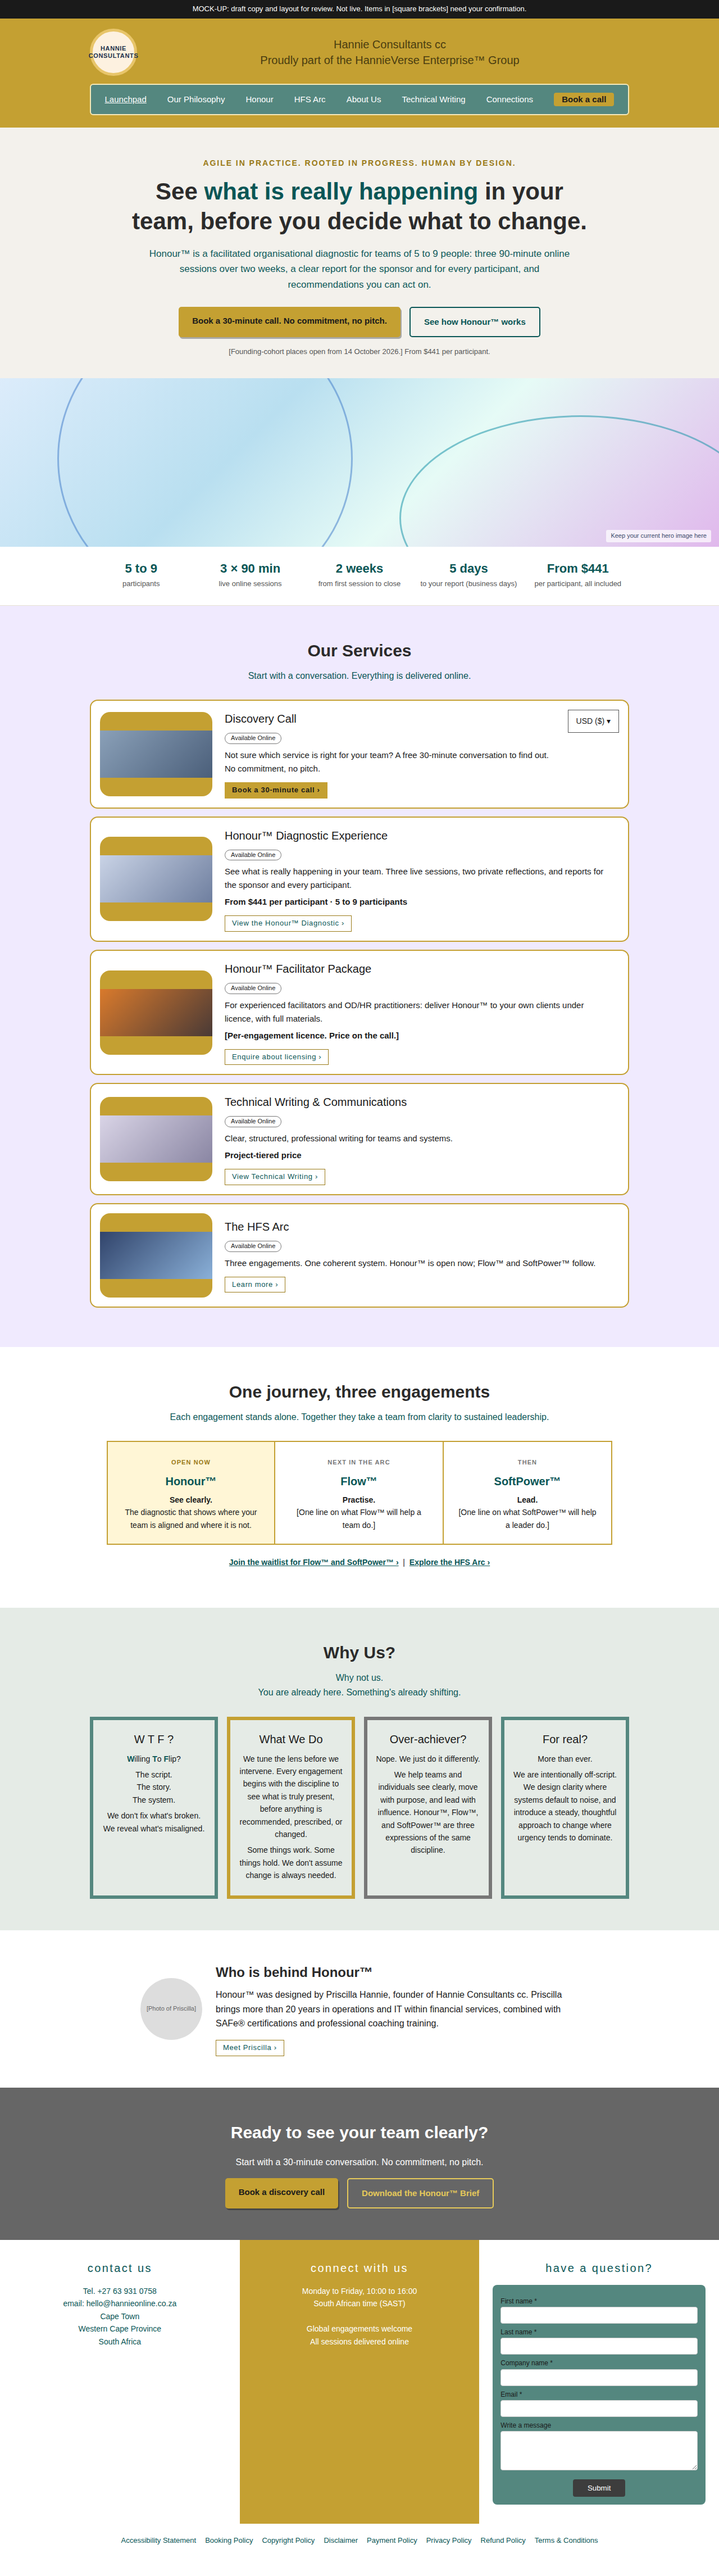
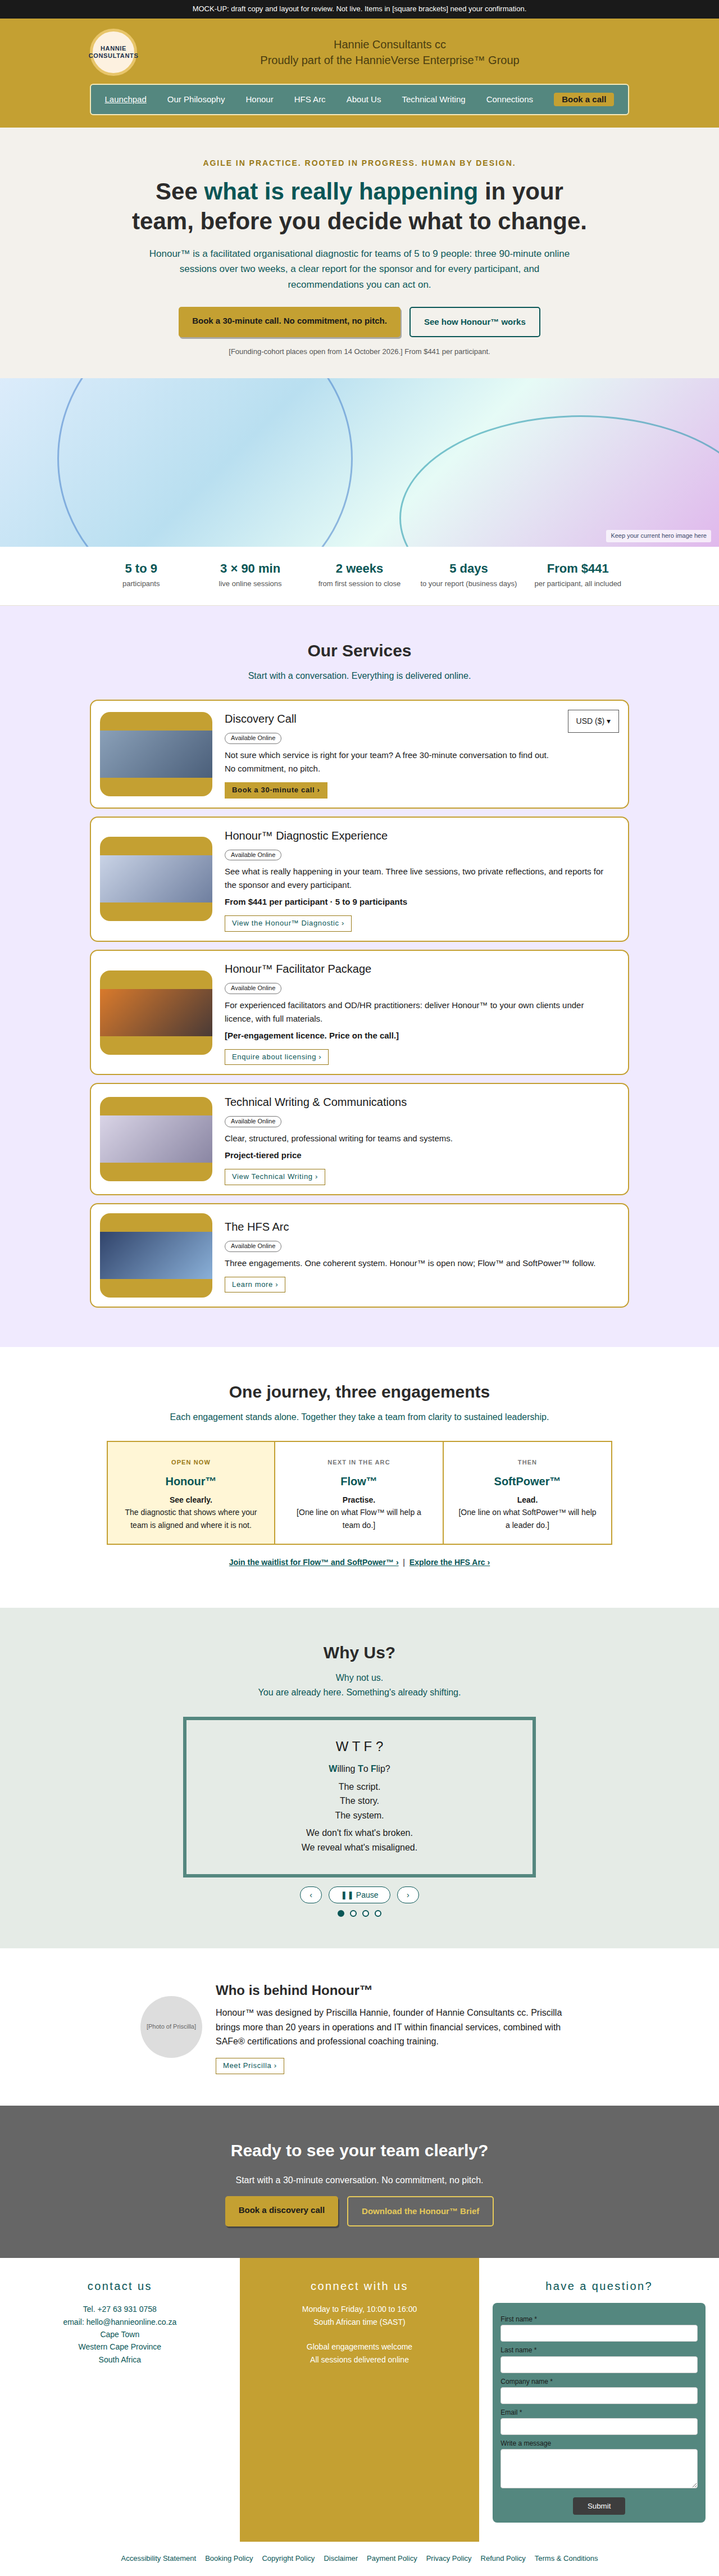
Homepage mock-up: Why Us as slideshow with 10s interval and pause/play
Claude-Session: https://claude.ai/code/session_01VGNF22YqMhet38GotcC9rv

diff --git a/qa/homepage-mockup.html b/qa/homepage-mockup.html
@@ -68,7 +68,18 @@
   .tag.soon{color:#777}
   .arcnote{text-align:center;margin-top:20px;font-size:14px}
   .arcnote a{color:var(--teal-d);font-weight:600}
-  .cards{display:grid;grid-template-columns:repeat(4,1fr);gap:16px}
+  .show{max-width:640px;margin:0 auto}
+  .viewport{overflow:hidden}
+  .track{display:flex;transition:transform .5s ease}
+  .slide{flex:0 0 100%;padding:0 6px}
+  .slide .wcard{font-size:16px;padding:28px 26px;min-height:250px;display:flex;flex-direction:column;justify-content:center}
+  .slide .wcard h3{font-size:24px}
+  .ctrl{display:flex;justify-content:center;align-items:center;gap:12px;margin-top:16px}
+  .ctrl button{border:1px solid var(--teal-d);background:#fff;color:var(--teal-d);border-radius:20px;padding:6px 16px;font-size:14px;cursor:pointer;font-family:inherit}
+  .ctrl #pp{min-width:110px}
+  .dots{display:flex;justify-content:center;gap:10px;margin-top:12px}
+  .dots button{width:12px;height:12px;border-radius:50%;border:2px solid var(--teal-d);background:#fff;padding:0;cursor:pointer}
+  .dots button.on{background:var(--teal-d)}
   .wcard{border:6px solid var(--teal);padding:18px 14px;text-align:center;background:var(--mint);font-size:14px}
   .wcard.g{border-color:var(--gold)}
   .wcard.k{border-color:#777}
@@ -96,7 +107,7 @@
   @media(max-width:760px){
     .facts .wrap{grid-template-columns:repeat(2,1fr)}
     .svc{grid-template-columns:1fr}
-    .cards,.arc,.contact{grid-template-columns:1fr}
+    .arc,.contact{grid-template-columns:1fr}
     .step + .step{border-left:2px solid var(--gold);border-top:none}
     .head p{font-size:14px}
     .logo{width:64px;height:64px;font-size:8px}
@@ -221,12 +232,15 @@
   <div class="wrap">
     <h2>Why Us?</h2>
     <p class="sub">Why not us.<br>You are already here. Something's already shifting.</p>
-    <div class="cards">
-      <div class="wcard"><h3>W T F ?</h3><p><b style="color:var(--teal-d)">W</b>illing <b style="color:var(--teal-d)">T</b>o <b style="color:var(--teal-d)">F</b>lip?</p><p>The script.<br>The story.<br>The system.</p><p>We don't fix what's broken.<br>We reveal what's misaligned.</p></div>
-      <div class="wcard g"><h3>What We Do</h3><p>We tune the lens before we intervene. Every engagement begins with the discipline to see what is truly present, before anything is recommended, prescribed, or changed.</p><p>Some things work. Some things hold. We don't assume change is always needed.</p></div>
-      <div class="wcard k"><h3>Over-achiever?</h3><p>Nope. We just do it differently.</p><p>We help teams and individuals see clearly, move with purpose, and lead with influence. Honour&trade;, Flow&trade;, and SoftPower&trade; are three expressions of the same discipline.</p></div>
-      <div class="wcard"><h3>For real?</h3><p>More than ever.</p><p>We are intentionally off-script. We design clarity where systems default to noise, and introduce a steady, thoughtful approach to change where urgency tends to dominate.</p></div>
-    </div>
+    <div class="show" role="region" aria-roledescription="carousel" aria-label="Why us">
+      <div class="viewport"><div class="track" id="track"><div class="slide" role="group" aria-roledescription="slide" aria-label="1 of 4"><div class="wcard"><h3>W T F ?</h3><p><b style="color:var(--teal-d)">W</b>illing <b style="color:var(--teal-d)">T</b>o <b style="color:var(--teal-d)">F</b>lip?</p><p>The script.<br>The story.<br>The system.</p><p>We don't fix what's broken.<br>We reveal what's misaligned.</p></div></div><div class="slide" role="group" aria-roledescription="slide" aria-label="2 of 4"><div class="wcard g"><h3>What We Do</h3><p>We tune the lens before we intervene. Every engagement begins with the discipline to see what is truly present, before anything is recommended, prescribed, or changed.</p><p>Some things work. Some things hold. We don't assume change is always needed.</p></div></div><div class="slide" role="group" aria-roledescription="slide" aria-label="3 of 4"><div class="wcard k"><h3>Over-achiever?</h3><p>Nope. We just do it differently.</p><p>We help teams and individuals see clearly, move with purpose, and lead with influence. Honour&trade;, Flow&trade;, and SoftPower&trade; are three expressions of the same discipline.</p></div></div><div class="slide" role="group" aria-roledescription="slide" aria-label="4 of 4"><div class="wcard"><h3>For real?</h3><p>More than ever.</p><p>We are intentionally off-script. We design clarity where systems default to noise, and introduce a steady, thoughtful approach to change where urgency tends to dominate.</p></div></div></div></div>
+      <div class="ctrl">
+        <button id="prev" aria-label="Previous slide">&#8249;</button>
+        <button id="pp" aria-label="Pause slideshow">&#10074;&#10074; Pause</button>
+        <button id="next" aria-label="Next slide">&#8250;</button>
+      </div>
+      <div class="dots" id="dots"></div>
+    </div></div>
   </div>
 </section>
 
@@ -260,5 +274,23 @@
 <footer>
   <a href="#">Accessibility Statement</a><a href="#">Booking Policy</a><a href="#">Copyright Policy</a><a href="#">Disclaimer</a><a href="#">Payment Policy</a><a href="#">Privacy Policy</a><a href="#">Refund Policy</a><a href="#">Terms &amp; Conditions</a>
 </footer>
+<script>
+(function(){
+  var track=document.getElementById('track'),n=track.children.length,i=0,timer=null,playing=true;
+  var dots=document.getElementById('dots'),pp=document.getElementById('pp');
+  var reduce=window.matchMedia&&matchMedia('(prefers-reduced-motion: reduce)').matches;
+  for(var k=0;k<n;k++){(function(k){var b=document.createElement('button');b.setAttribute('aria-label','Go to slide '+(k+1));b.onclick=function(){go(k)};dots.appendChild(b)})(k)}
+  function go(x){i=(x+n)%n;track.style.transform='translateX(-'+i*100+'%)';[].forEach.call(dots.children,function(d,k){d.className=k===i?'on':''});}
+  function start(){stop();timer=setInterval(function(){go(i+1)},10000)}
+  function stop(){if(timer){clearInterval(timer);timer=null}}
+  function setPlaying(p){playing=p;pp.innerHTML=p?'&#10074;&#10074; Pause':'&#9654; Play';pp.setAttribute('aria-label',p?'Pause slideshow':'Play slideshow');p?start():stop()}
+  pp.onclick=function(){setPlaying(!playing)};
+  document.getElementById('prev').onclick=function(){go(i-1)};
+  document.getElementById('next').onclick=function(){go(i+1)};
+  var x0=null;track.addEventListener('touchstart',function(e){x0=e.touches[0].clientX},{passive:true});
+  track.addEventListener('touchend',function(e){if(x0===null)return;var dx=e.changedTouches[0].clientX-x0;if(Math.abs(dx)>40)go(i+(dx<0?1:-1));x0=null});
+  go(0);setPlaying(!reduce);
+})();
+</script>
 </body>
 </html>
